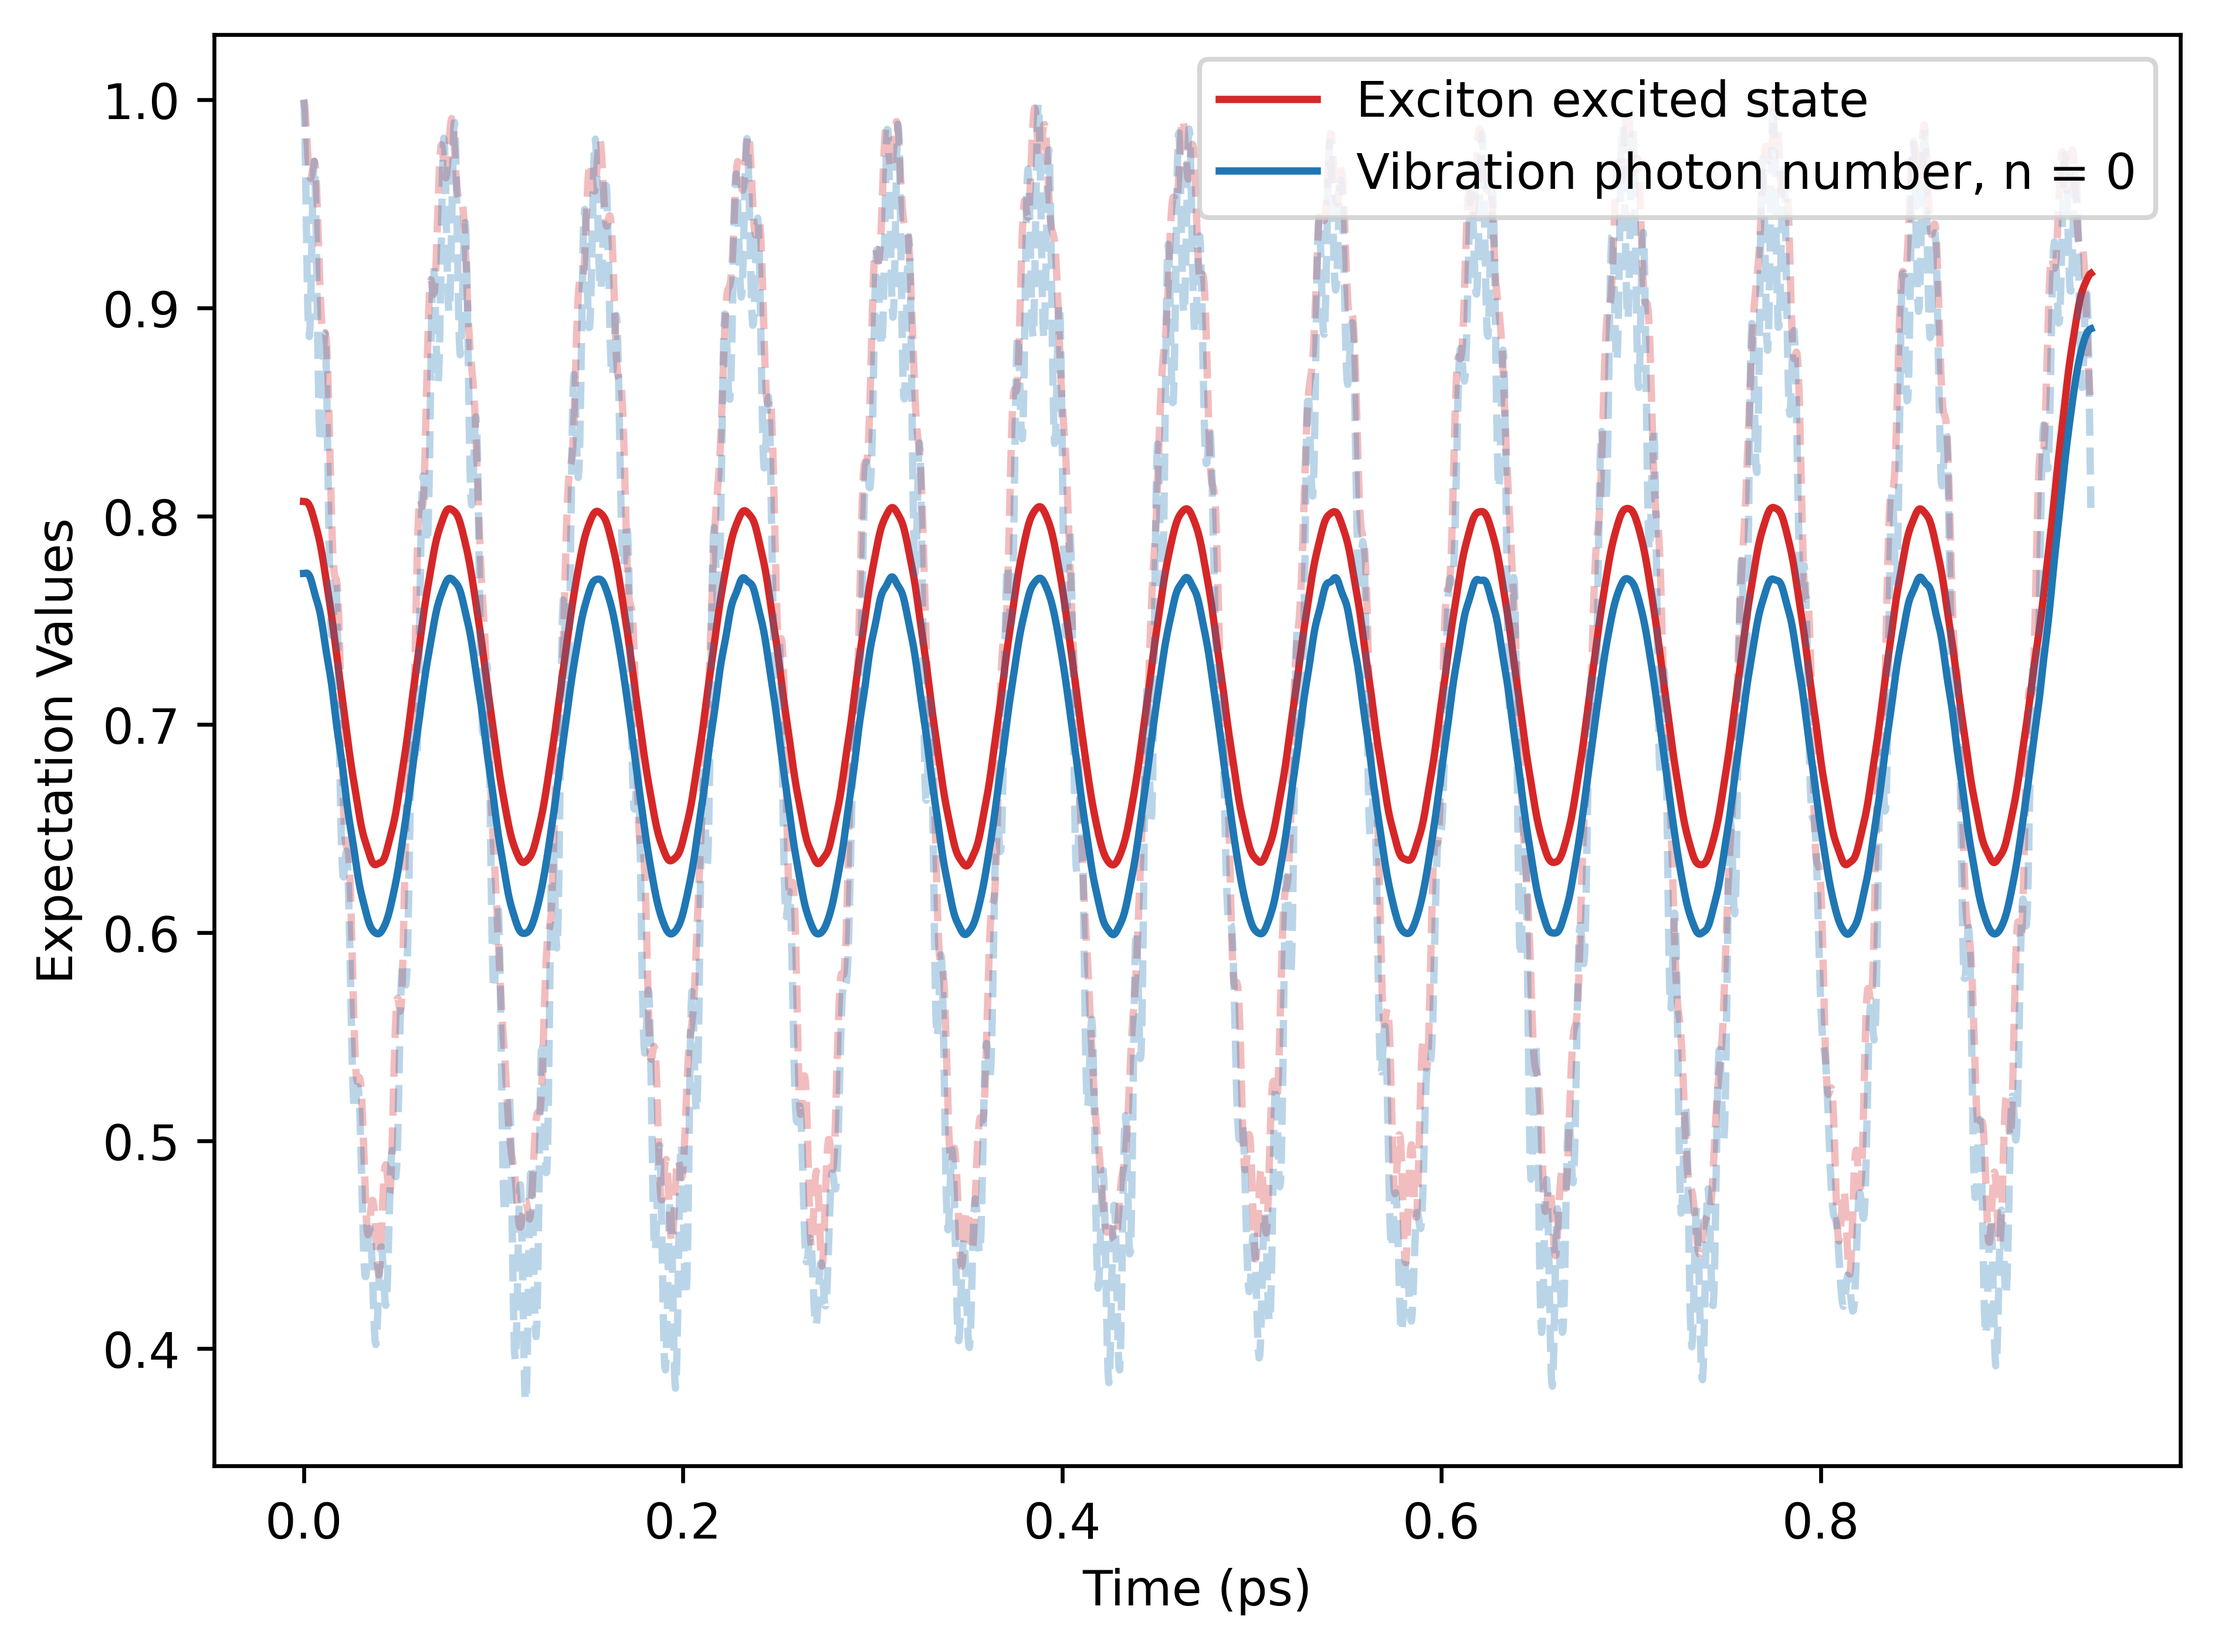
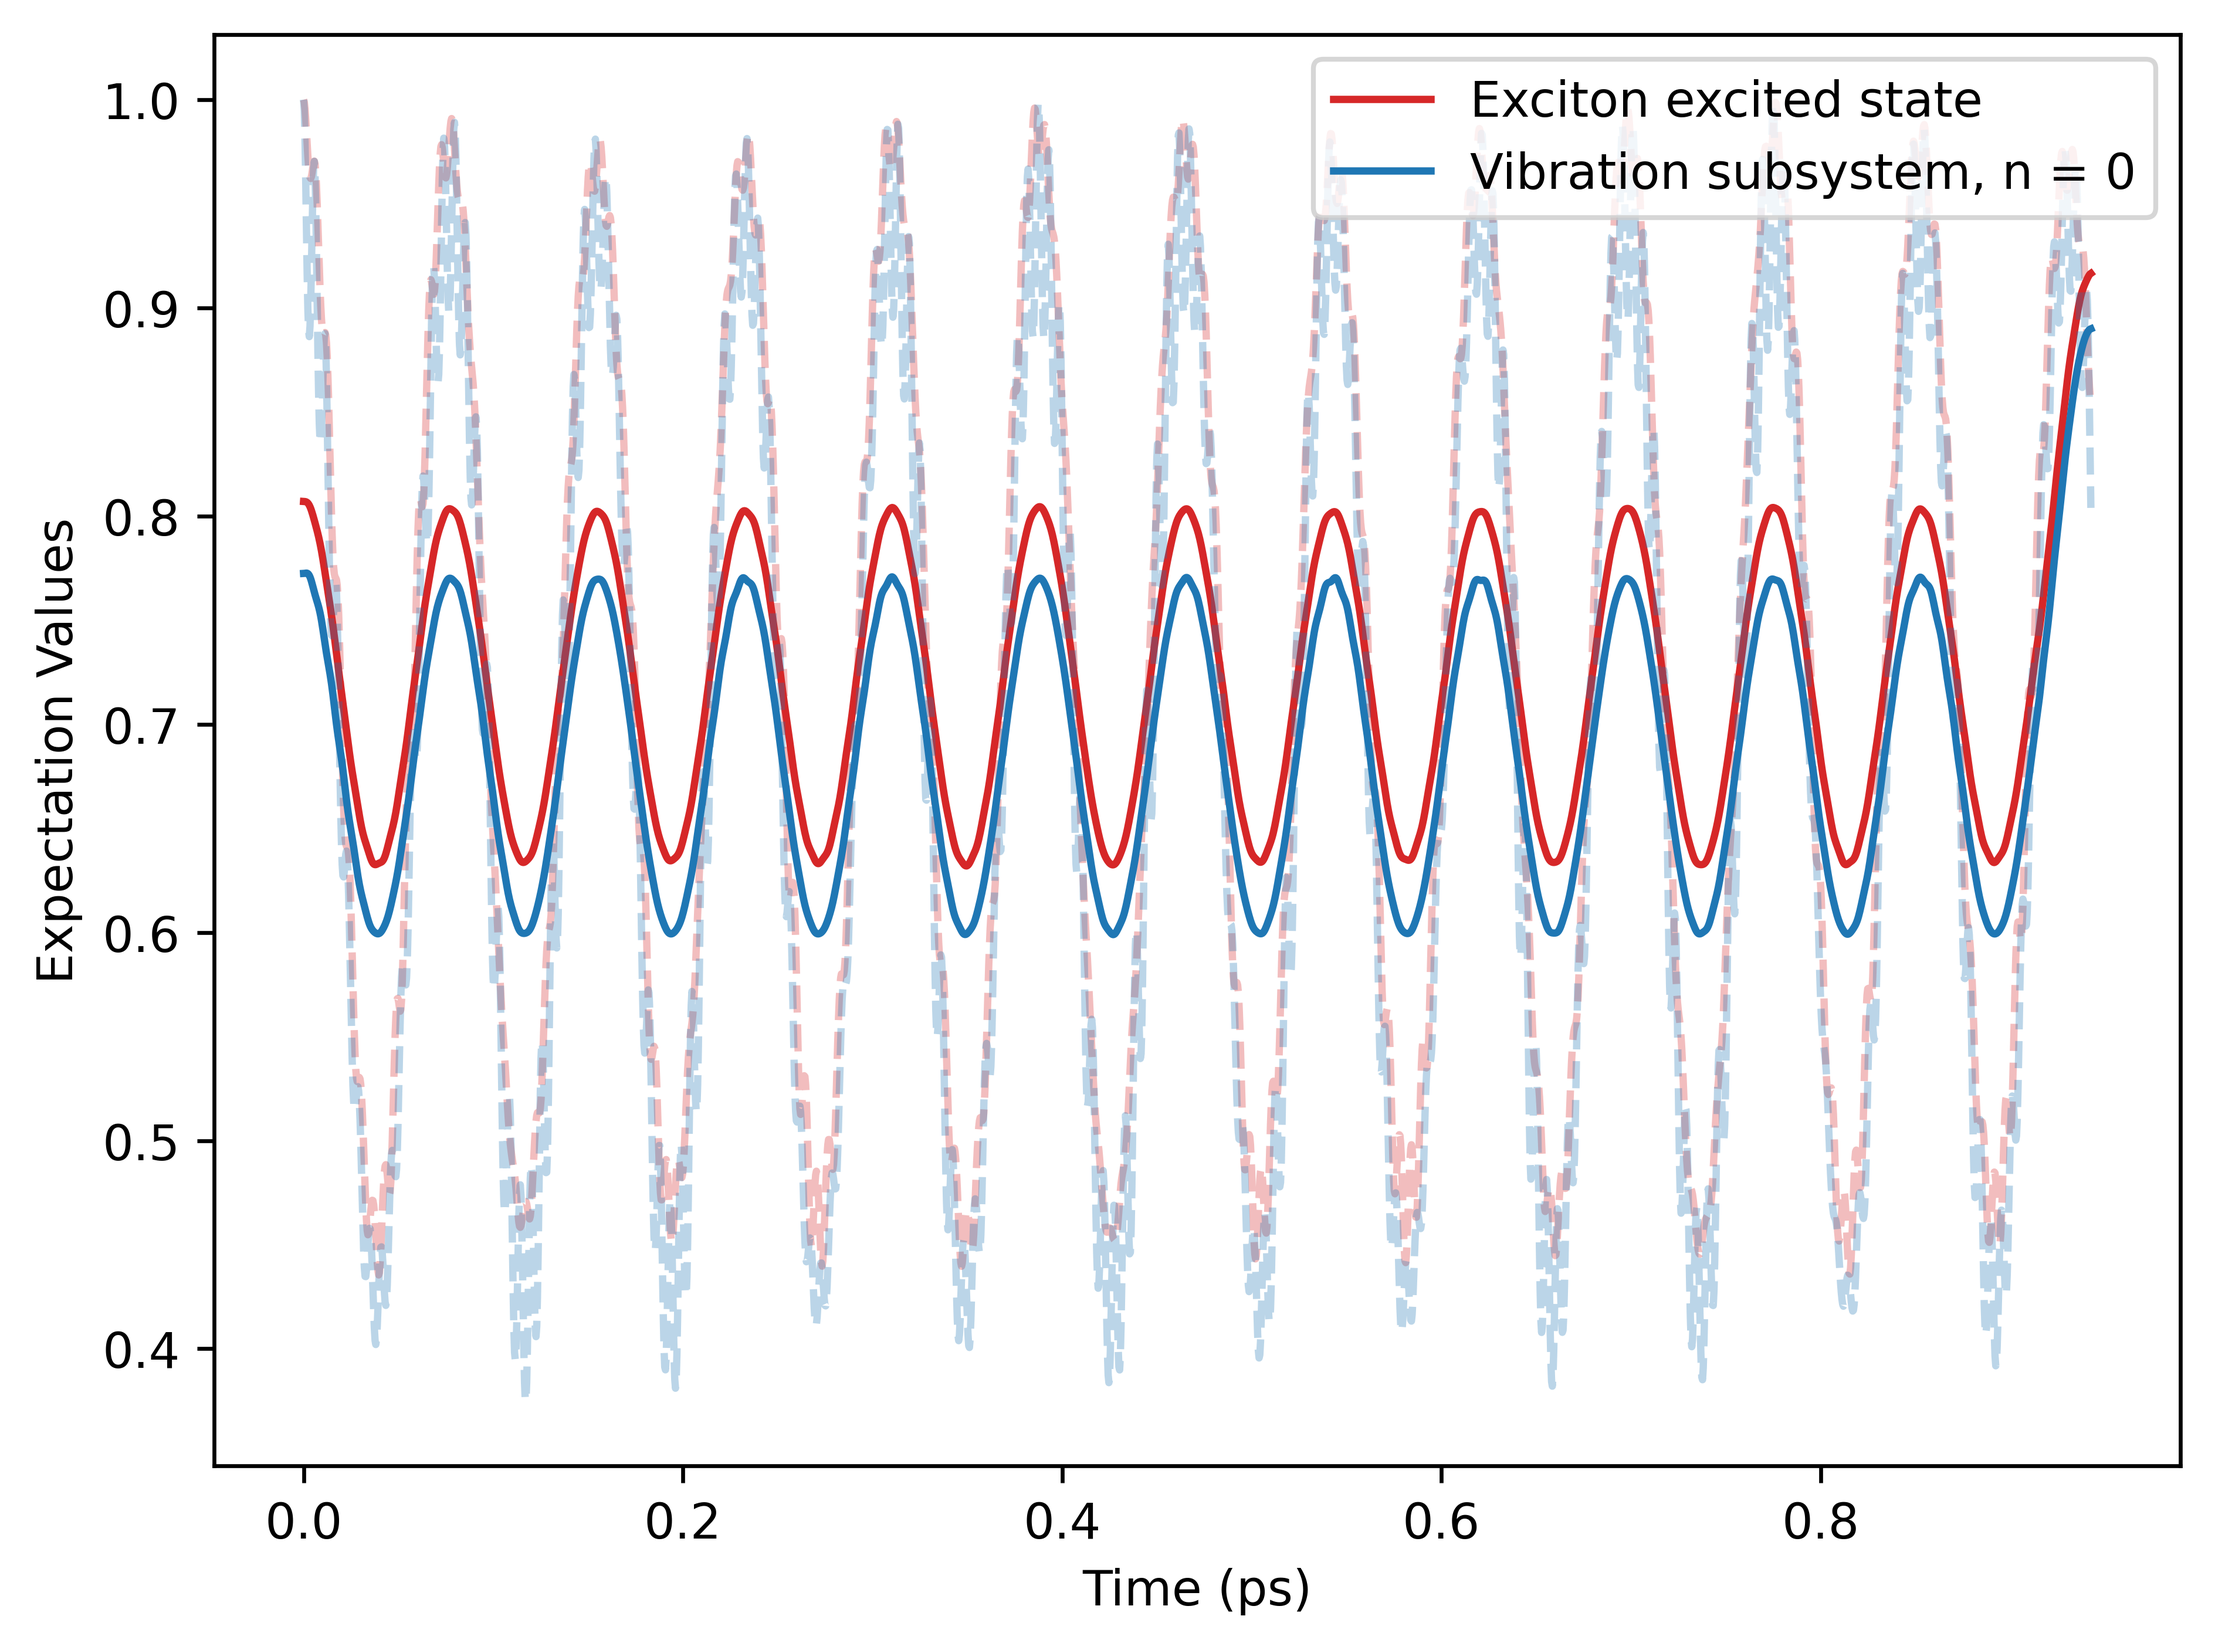
Corrects legends for plots.

Changed region(s): [[0.5312, 0.0309, 0.9062, 0.1546]]

diff --git a/Research Project/Code/ExVib_Closed.py b/Research Project/Code/ExVib_Closed.py
@@ -109,7 +109,7 @@ sim_e0_env.plot(
         },
         {
             "y_data": results_expt_e0_env[1],
-            "label": "Vibration photon number, n = 0",
+            "label": "Vibration subsystem, n = 0",
             "colour": "tab:blue",
         },
     ],
@@ -149,7 +149,7 @@ sim_eg_env.plot(
         },
         {
             "y_data": results_expt_eg_env[1],
-            "label": "Vibration photon number, n = 0",
+            "label": "Vibration subsystem, n = 0",
             "colour": "tab:blue",
         },
     ],
@@ -191,7 +191,7 @@ sim_e0_fast.plot(
         },
         {
             "y_data": results_expt_e0_fast[1],
-            "label": "Vibration photon number, n = 0",
+            "label": "Vibration subsystem, n = 0",
             "colour": "tab:blue",
         },
     ],
@@ -235,7 +235,7 @@ sim_eg_fast.plot(
         },
         {
             "y_data": results_expt_eg_fast[1],
-            "label": "Vibration photon number, n = 0",
+            "label": "Vibration subsystem, n = 0",
             "colour": "tab:blue",
         },
     ],

diff --git a/Research Project/Code/ExVib_Pops_Open.py b/Research Project/Code/ExVib_Pops_Open.py
@@ -97,7 +97,7 @@ for decay_label, lindblad_ops in decay_ops.items():
             f"pops_ex_{decay_label}_{psi_label}",
             [
                 {"y_data": excited, "label": "Exciton subsystem (excited)", "colour": "tab:red"},
-                {"y_data": vib1, "label": "Vibration photon number, n = 1", "colour": "tab:blue"},
+                {"y_data": vib1, "label": "Vibration subsystem, n = 1", "colour": "tab:blue"},
             ],
             "Populations",
             savepath="ExVib/Open/Population/Fast",
@@ -119,7 +119,7 @@ for decay_label, lindblad_ops in decay_ops.items():
             f"pops_ex_{decay_label}_{psi_label}",
             [
                 {"y_data": excited, "label": "Exciton subsystem (excited)", "colour": "tab:red"},
-                {"y_data": vib1, "label": "Vibration photon number, n = 1", "colour": "tab:blue"},
+                {"y_data": vib1, "label": "Vibration subsystem, n = 1", "colour": "tab:blue"},
             ],
             "Populations",
             savepath="ExVib/Open/Population/Envelope",
